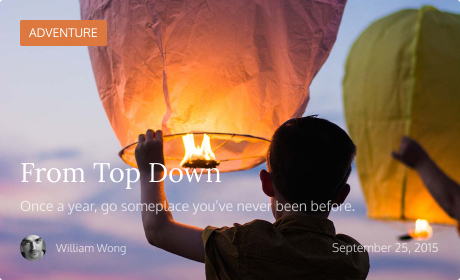
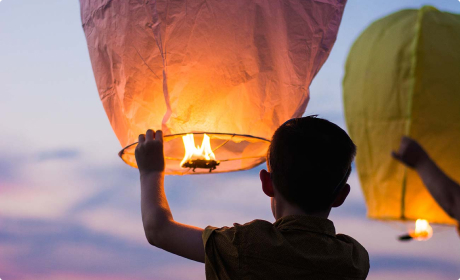
1

diff --git a/lab2_1/index.html b/lab2_1/index.html
@@ -14,11 +14,131 @@
             <div class="featuredpost">
                 <div class="featuredpost__body">
                     <div class="featuredpost__header">
-                        <div class="featurepost__title title">Featured Post</div>
-                        <div class="featuredpost__content"></div>
+                        <div class="featuredpost__title title">Featured Post</div>                       
+                    </div>
+                    <div class="featuredpost__row">
+                        <div class="featuredpost__column">
+                            <div class="item-featuredpost" style="background-image: url(images/the_road_ahead.jpg);">                                
+                                <div class="item-featuredpost__title">The Road Ahead</div>
+                                <div class="item-featuredpost__subtitle">The road ahead might be paved - it might not be.</div>
+                                <div class="item-featuredpost__description">
+                                    <div class="description__autor">
+                                        <div class="autor__icon"><img src="images/mat_vogels.jpg" alt=""></div>
+                                        Mat Vogels
+                                    </div>
+                                    <div class="description__date">September 25, 2015</div>
+                                </div>
+                            </div>
+                        </div>
+                        <div class="featuredpost__column">
+                            <div class="item-featuredpost" style="background-image: url(images/from_top_down.jpg);">
+                                <div class="item-featuredpost__title">From Top Down</div>
+                                <div class="item-featuredpost__subtitle">Once a year, go someplace you’ve never been before.</div>
+                                <div class="item-featuredpost__description">
+                                    <div class="description__autor">
+                                        <div class="autor__icon"><img src="images/william_wong.jpg" alt="" style="border-radius: 50%;"></div>
+                                        William Wong
+                                    </div>
+                                    <div class="description__date">September 25, 2015</div>
+                                </div>
+                            </div>
+                        </div>
                     </div>
                 </div>
-            </div>            
+            </div>
+            <div class="mostrecent">
+                <div class="mostrecent__body">
+                    <div class="mostrecent__header">
+                        <div class="mostrecent__title title">Most Recent</div>                       
+                    </div>
+                    <div class="mostrecent__row">
+                        <div class="mostrecent__column">
+                            <div class="item-mostrecent">
+                                <div class="item-mostrecent__image"><img src="images/still_standing_tall.jpg" alt=""></div>                                
+                                <div class="item-mostrecent__title">Still Standing Tall</div>
+                                <div class="item-mostrecent__subtitle">Life begins at the end of your comfort zone.</div>
+                                <div class="item-mostrecent__description">
+                                    <div class="description__autor">
+                                        <div class="autor__icon"><img src="images/william_wong.jpg" alt=""></div>
+                                        William Wong
+                                    </div>
+                                    <div class="description__date">9/25/2015</div>
+                                </div>
+                            </div>
+                        </div>
+                        <div class="mostrecent__column">
+                            <div class="item-mostrecent">
+                                <div class="item-mostrecent__image"><img src="images/sunny_side_up.jpg" alt=""></div>                                
+                                <div class="item-mostrecent__title">Sunny Side Up</div>
+                                <div class="item-mostrecent__subtitle">No place is ever as bad as they tell you it’s going to be.</div>
+                                <div class="item-mostrecent__description">
+                                    <div class="description__autor">
+                                        <div class="autor__icon"><img src="images/mat_vogels.jpg" alt=""></div>
+                                        Mat Vogels
+                                    </div>
+                                    <div class="description__date">9/25/2015</div>
+                                </div>
+                            </div>
+                        </div>
+                        <div class="mostrecent__column">
+                            <div class="item-mostrecent">
+                                <div class="item-mostrecent__image"><img src="images/water_fall.jpg" alt=""></div>                                
+                                <div class="item-mostrecent__title">Water Falls</div>
+                                <div class="item-mostrecent__subtitle">We travel not to escape life, but for life not to escape us.</div>
+                                <div class="item-mostrecent__description">
+                                    <div class="description__autor">
+                                        <div class="autor__icon"><img src="images/mat_vogels.jpg" alt=""></div>
+                                        Mat Vogels
+                                    </div>
+                                    <div class="description__date">9/25/2015</div>
+                                </div>
+                            </div>
+                        </div>
+                        <div class="mostrecent__column">
+                            <div class="item-mostrecent">
+                                <div class="item-mostrecent__image"><img src="images/through_the_mist.jpg" alt=""></div>                                
+                                <div class="item-mostrecent__title">Through the Mist</div>
+                                <div class="item-mostrecent__subtitle">Travel makes you see what a tiny place you occupy in the world.</div>
+                                <div class="item-mostrecent__description">
+                                    <div class="description__autor">
+                                        <div class="autor__icon"><img src="images/william_wong.jpg" alt=""></div>
+                                        William Wong
+                                    </div>
+                                    <div class="description__date">9/25/2015</div>
+                                </div>
+                            </div>
+                        </div>
+                        <div class="mostrecent__column">
+                            <div class="item-mostrecent">
+                                <div class="item-mostrecent__image"><img src="images/awaken_early.jpg" alt=""></div>                                
+                                <div class="item-mostrecent__title">Awaken Early</div>
+                                <div class="item-mostrecent__subtitle">Not all those who wander are lost.</div>
+                                <div class="item-mostrecent__description">
+                                    <div class="description__autor">
+                                        <div class="autor__icon"><img src="images/mat_vogels.jpg" alt=""></div>
+                                        Mat Vogels
+                                    </div>
+                                    <div class="description__date">9/25/2015</div>
+                                </div>
+                            </div>
+                        </div>
+                        <div class="mostrecent__column">
+                            <div class="item-mostrecent">
+                                <div class="item-mostrecent__image"><img src="images/try_it_always.jpg" alt=""></div>                                
+                                <div class="item-mostrecent__title">Try it Always</div>
+                                <div class="item-mostrecent__subtitle">The world is a book, and those who do not travel read only one page.</div>
+                                <div class="item-mostrecent__description">
+                                    <div class="description__autor">
+                                        <div class="autor__icon"><img src="images/mat_vogels.jpg" alt=""></div>
+                                        Mat Vogels
+                                    </div>
+                                    <div class="description__date">9/25/2015</div>
+                                </div>
+                            </div>
+                        </div>
+                    </div>
+                </div>
+            </div>
         </main>
         <footer>
             

diff --git a/lab2_1/styles/styles.css b/lab2_1/styles/styles.css
@@ -3,6 +3,257 @@
     padding: 0;
 }
 
+main {
+    background-color: #F7F7F7;
+    ;
+}
+
+.featuredpost {
+    margin: 0px auto;
+
+    .featuredpost__body {
+        max-width: 960px;
+        margin: 0px auto;
+    }
+
+    .featuredpost__header {
+    }
+
+    .featuredpost__title {
+        /* margin: 0px 0px 16px 0px; */
+    }
+
+    .featuredpost__row {
+        margin: 0 auto;
+        padding-top: 23px;
+        display: flex;
+        flex-wrap: wrap;
+        justify-content: center;
+    }
+
+    .featuredpost__column {
+        display: inline-block;
+        padding-right: 20px;
+        padding-bottom: 20px;
+        
+    }
+}
+    
+
+
+.title {
+    font-family: Oxygen;
+    font-size: 20px;
+    font-weight: 400;
+    line-height: 27px;
+    letter-spacing: 2px;
+    position: relative;
+    text-align: center;
+    &:after {
+        content:'';
+        position: absolute;
+        width: 188px;
+        bottom: 0;
+        height: 1px;
+        left: 40%;
+        background-color: #DEDEDE;
+        padding: 0px 0px 0px 0px;
+    }
+}
+
+
+.item-featuredpost {
+    
+    background-size: 100% 100%;
+    width: 430px;
+    padding: 20px 15px;
+    
+    
+
+    .item-featuredpost__title {
+        padding-top: 157px;
+        font-family: Lora;
+        font-size: 27px;
+        font-weight: 400;
+        line-height: 30px;
+        letter-spacing: 0em;
+        text-align: left;
+        color: #FFFFFF;
+
+    }
+
+    .item-featuredpost__subtitle {
+        padding-top: 6px;
+        font-family: Oxygen;
+        font-size: 14px;
+        font-weight: 400;
+        line-height: 25px;
+        letter-spacing: 0em;
+        text-align: left;
+        color: #FFFFFFB2;
+
+
+
+
+    }
+
+    .item-featuredpost__description {
+        padding-top: 12px;
+        font-family: Oxygen;
+        font-size: 12px;
+        font-weight: 400;
+        line-height: 35px;
+        letter-spacing: 0em;
+        text-align: left;
+        color: #FFFFFFB2;
+        display: flex;
+        justify-content: space-between;
+        
+
+    }
+}
+
+
+
+.description__autor {
+    display: flex;
+    
+}
+.autor__icon {
+    padding-right: 10px;
+    display: flex;    
+
+    img {
+        border-radius: 50%;
+    }    
+}
+
+.description__date {
+} 
+
+
+
+.mostrecent {
+    padding-top: 40px;
+
+    .mostrecent__body {
+        max-width: 960px;
+        margin: 0 auto;
+    }
+
+    .mostrecent__header {
+    }
+
+    .mostrecent__title {
+    }
+
+    .mostrecent__row {
+        padding-top: 16px;
+        display: flex;
+        flex-wrap: wrap;
+        justify-content: center;          
+    }
+
+    .mostrecent__column {
+        display: flex;
+        justify-content: space-between;
+        max-width: 296px;
+        max-height: 291px;
+        padding-right: 24px;
+        padding-bottom: 25px;        
+    }
+}
+
+.item-mostrecent {
+    background-color: #FFFFFF;
+
+    .item-mostrecent__image {
+    }
+
+    .item-mostrecent__title {
+        padding: 14px 0px 0px 13px;
+        font-family: Lora;
+        font-size: 16px;
+        font-weight: 400;
+        line-height: 21px;
+        letter-spacing: 0em;
+        text-align: left;
+        color: #101315;
+    }
+
+    .item-mostrecent__subtitle {
+        padding: 6px 0px 0px 13px;
+        font-family: Oxygen;
+        font-size: 13px;
+        font-weight: 400;
+        line-height: 19px;
+        letter-spacing: 0em;
+        text-align: left;
+        color: #7A7A7A;
+    }
+
+    .item-mostrecent__description {
+        font-family: Oxygen;
+        font-size: 11px;
+        font-weight: 400;
+        line-height: 35px;
+        letter-spacing: 0em;
+        text-align: left;
+        color: #999999;        ;
+        display: flex;
+        justify-content: space-between;
+
+        .description__autor {
+            display: flex;
+
+            .autor__icon {
+                align-items: center;
+                justify-content: center;
+            }        
+        }
+
+        .description__date {
+            font-size: 12px;
+        }
+    }
+}
+
+
+
+
+
+
+
+
+
+
+
+
+
+
+
+
+
+
+
+
+
+
+
+
+
+
+
+
+
+
+
+
+
+
+
+
+
 /* .container { 
     max-width: 940px;  
     margin: 0 auto;
